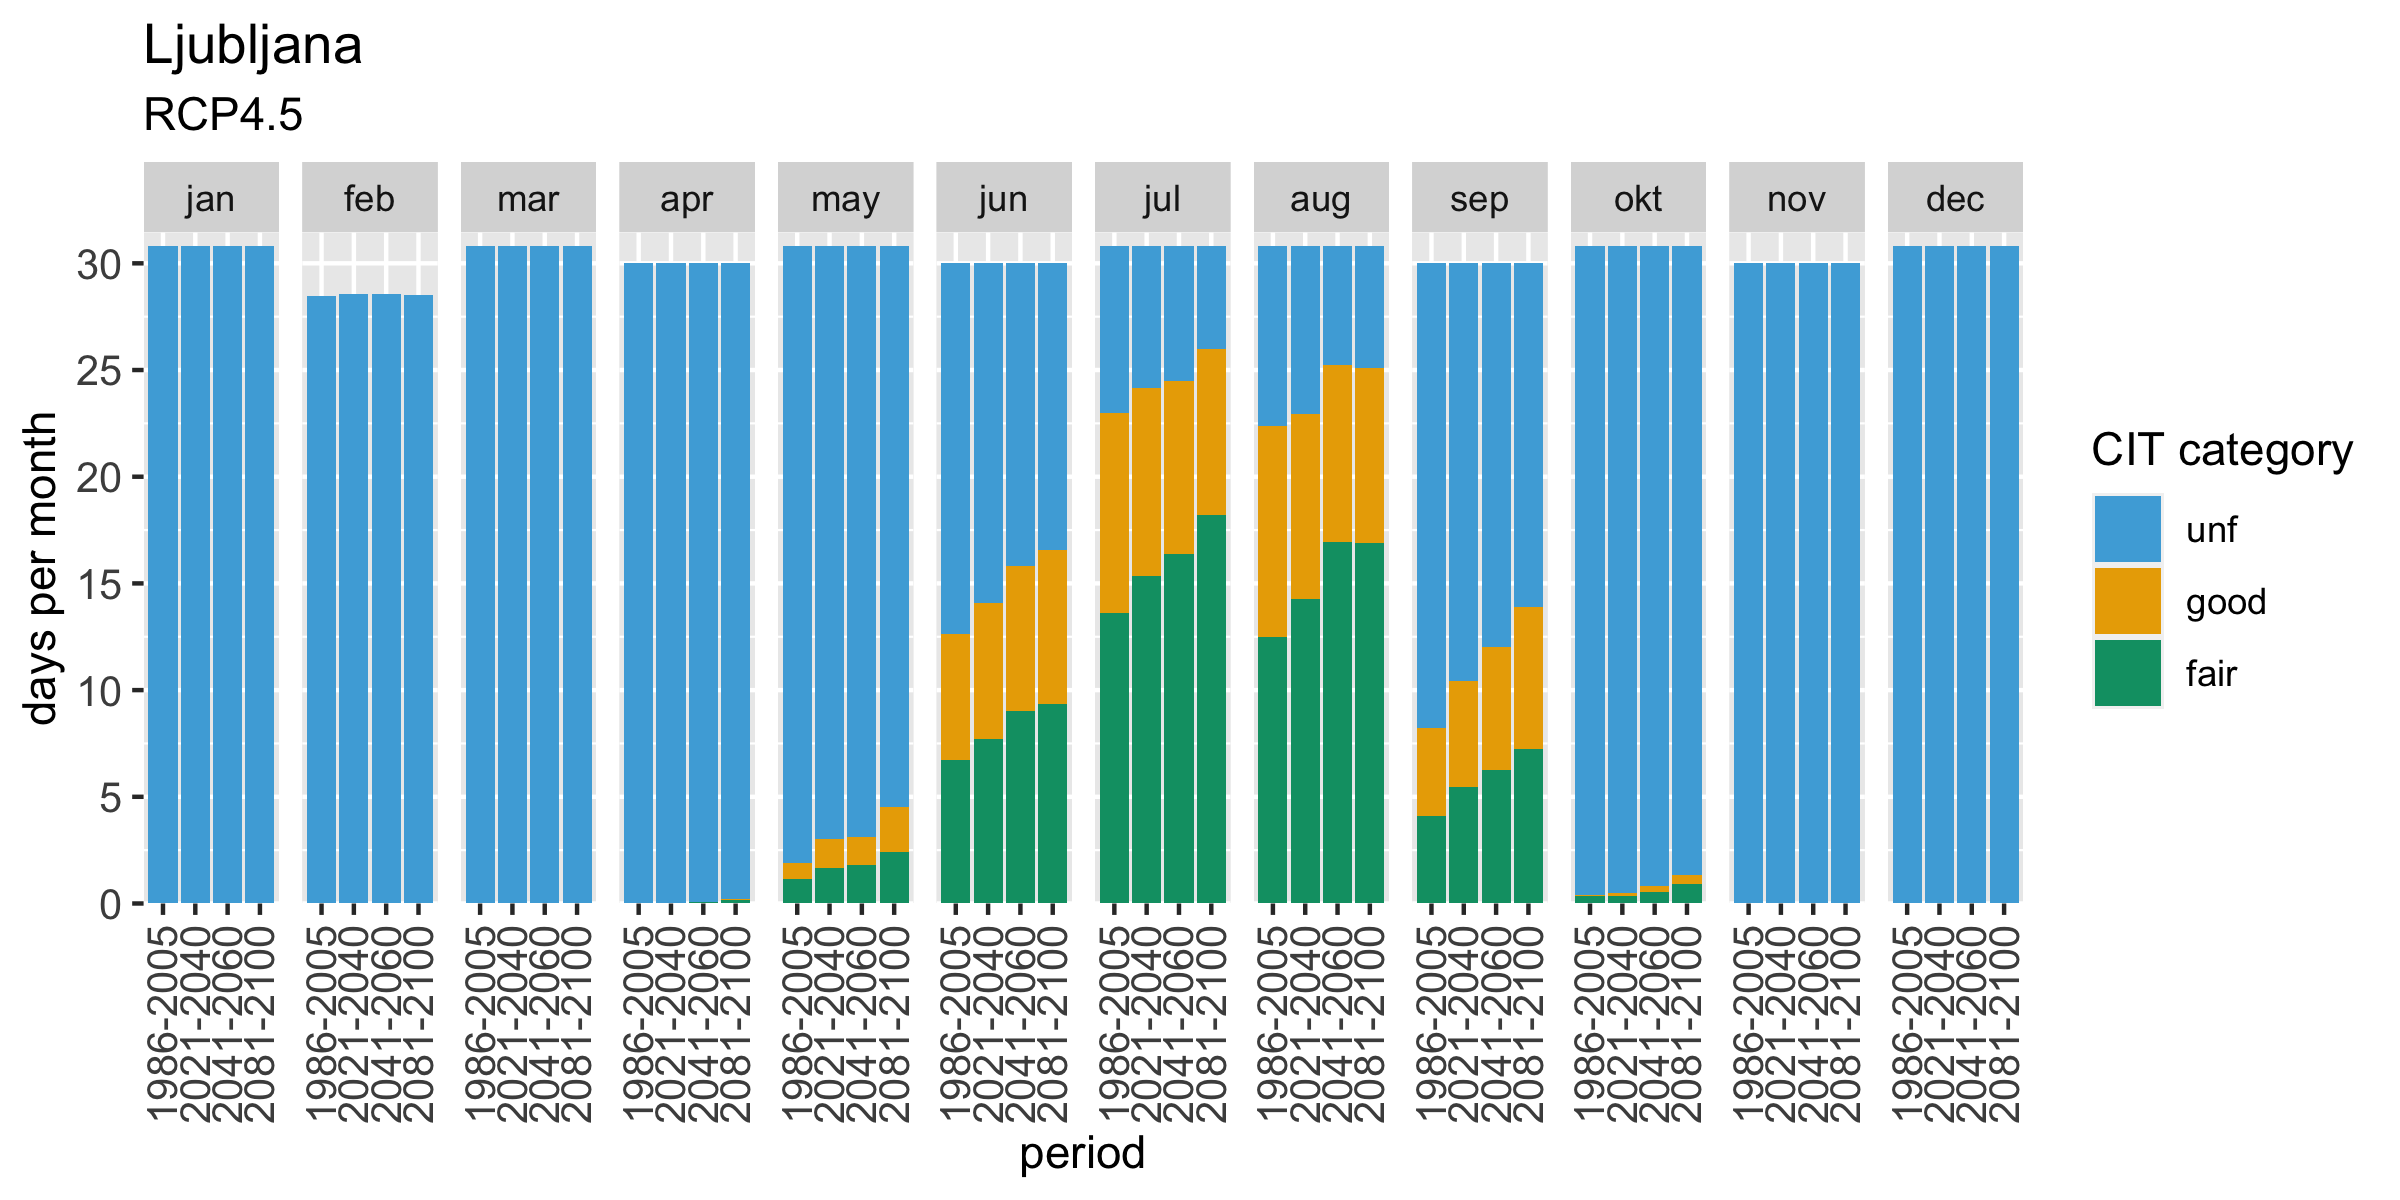
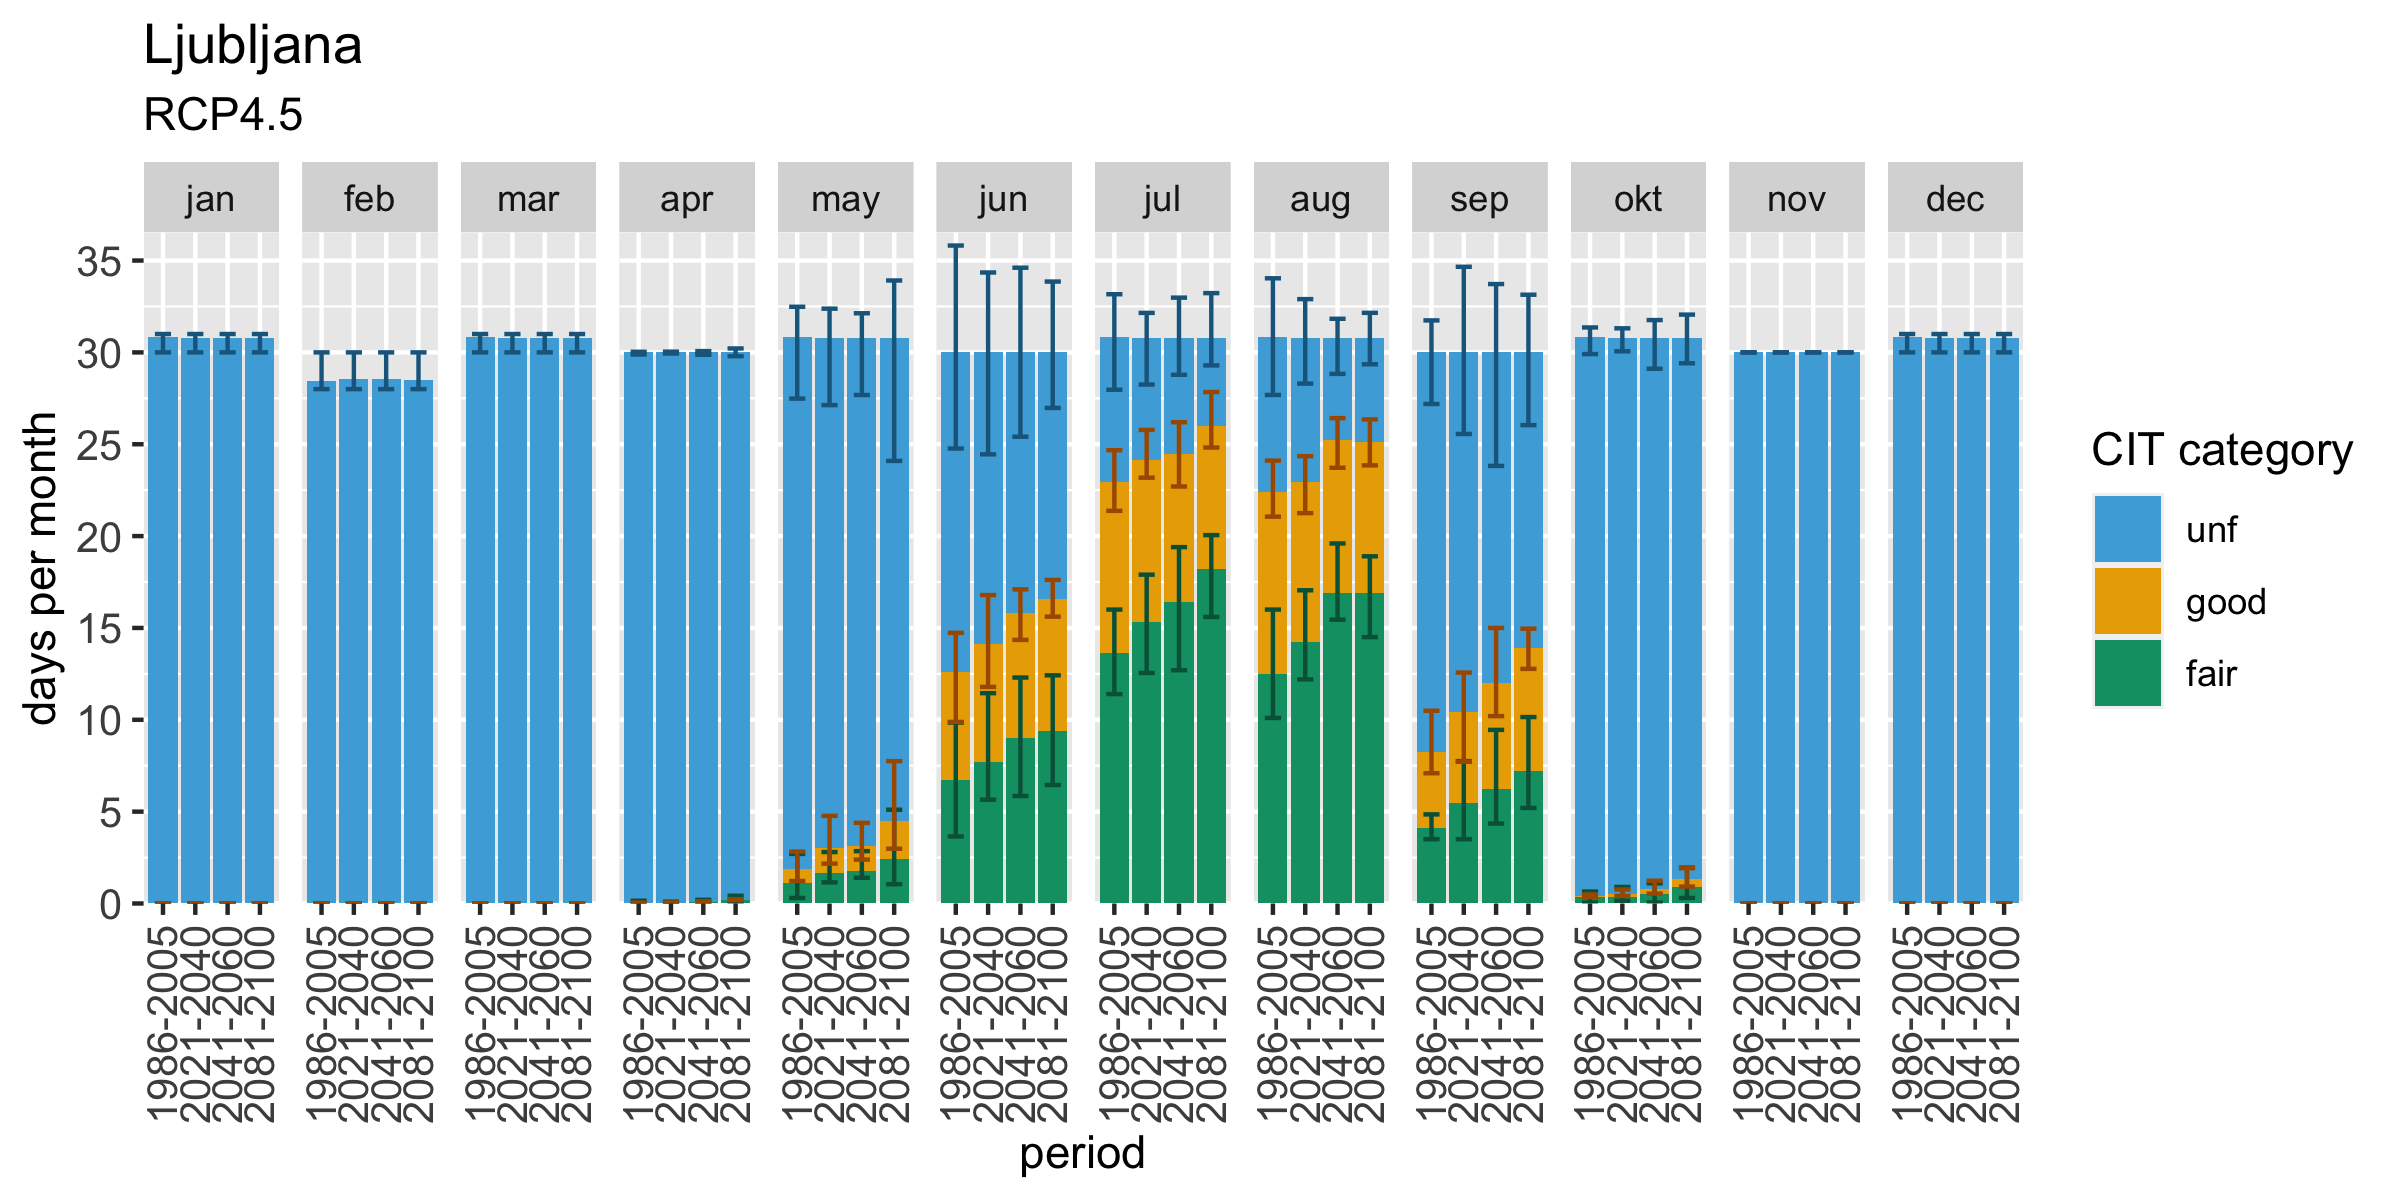
Add errorbars, axis labels

diff --git a/R/CIT.md b/R/CIT.md
@@ -170,9 +170,9 @@ for (stat_id in gridpoint_indexes) {
 
         p <- plotdata(stat_id, scen, all_cit_data)
         
-        ggsave(paste("nobars_", gsub(" ", "_", stat_name), "_", scen, ".pdf", sep=""), p, width=8, height=4, units="in", path="../output", device=cairo_pdf)
-        ggsave(paste("nobars_", gsub(" ", "_", stat_name), "_", scen, ".eps", sep=""), p, width=8, height=4, units="in", path="../output", device=cairo_ps)
-        ggsave(paste("nobars_", gsub(" ", "_", stat_name), "_", scen, ".png", sep=""), p, width=8, height=4, units="in", path="../output", dpi=500)
+        ggsave(paste(gsub(" ", "_", stat_name), "_", scen, ".pdf", sep=""), p, width=8, height=4, units="in", path="../output", device=cairo_pdf)
+        ggsave(paste(gsub(" ", "_", stat_name), "_", scen, ".eps", sep=""), p, width=8, height=4, units="in", path="../output", device=cairo_ps)
+        ggsave(paste(gsub(" ", "_", stat_name), "_", scen, ".png", sep=""), p, width=8, height=4, units="in", path="../output", dpi=500)
     }
 }
 ```

diff --git a/R/CIT-HCI-gridpoints.md b/R/CIT-HCI-gridpoints.md
@@ -76,6 +76,8 @@ ggplot(mapdata) +
     geom_sf() +
     coord_sf(xlim=c(7, 21), ylim=c(42, 50)) + 
     geom_point(data=grid, mapping = aes(lon, lat), size=0.2) +
+    xlab("longitude") +
+    ylab("latitude") +
     theme_dark()
 ```
 
@@ -137,6 +139,8 @@ ggplot(mapdata) +
     geom_point(data=grid, mapping = aes(lon, lat), size=0.2) +
     geom_point(data=stationcoords, mapping = aes(lon, lat), color="#FF3000") +
     geom_point(data=chosen_gridpoints, mapping = aes(lon, lat), color="#0062FF") +
+    xlab("longitude") +
+    ylab("latitude") +
     theme_dark()
 ```
 
